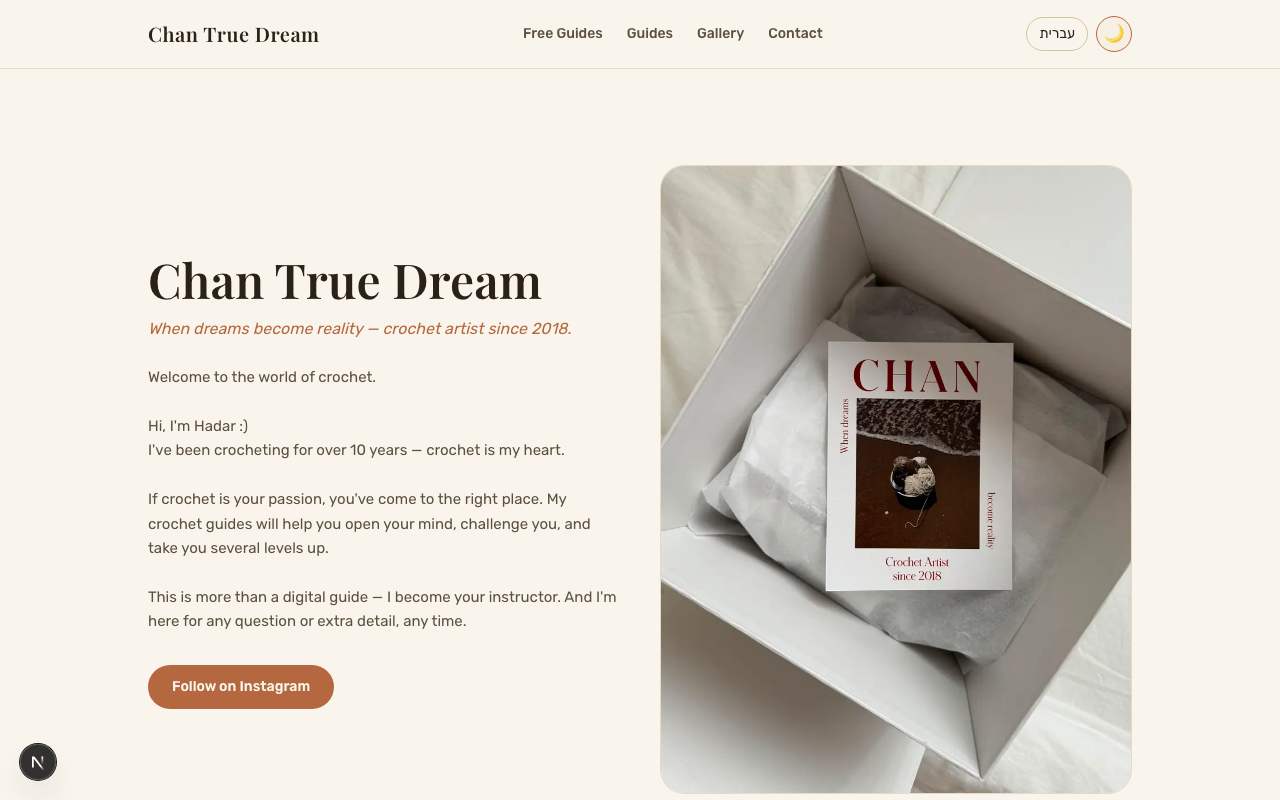
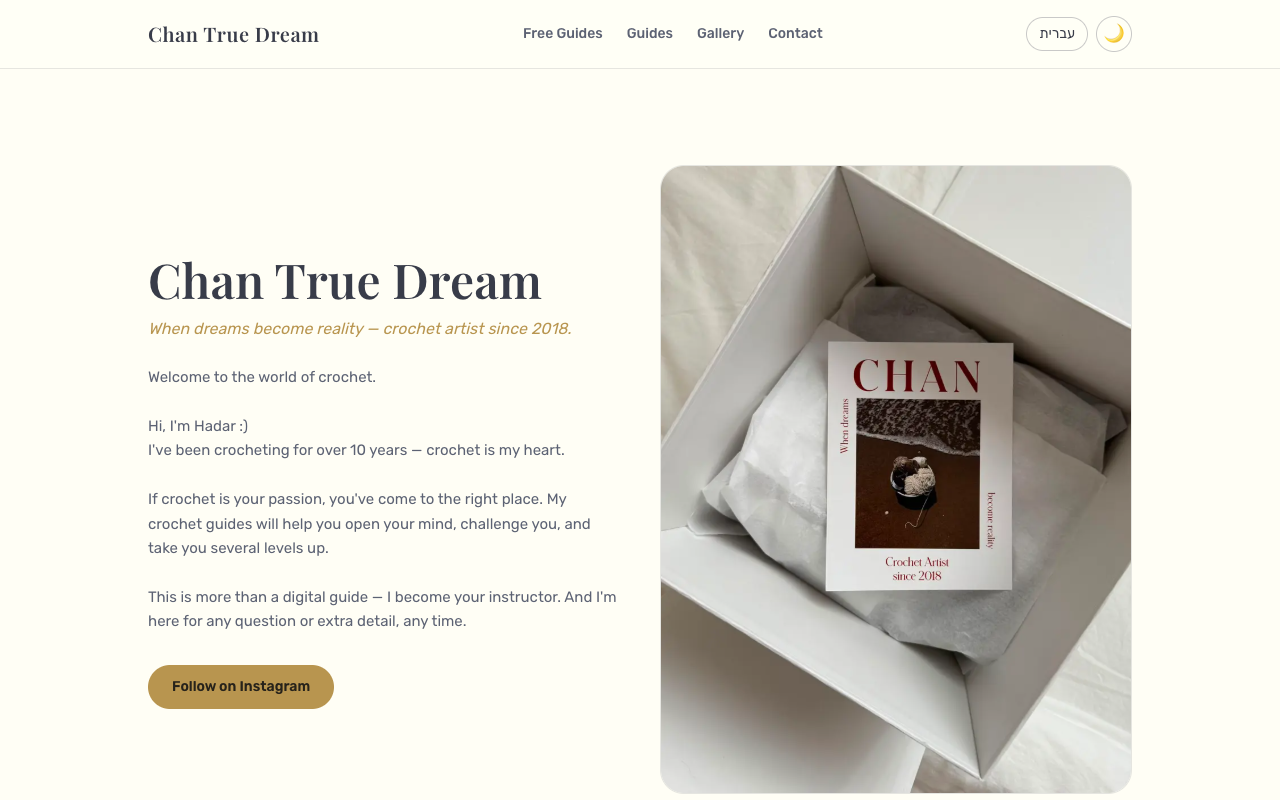
fix: sync live-project content with upstream repos
Flagscope now supports 6 providers (added GrowthBook and ConfigCat
since the portfolio copy was written) — updated the provider list in
both Products and LiveWork. Also refreshes Chan True Dream's
screenshot, which predated its accent-color shift from
terracotta-orange to warm gold/cream.

Verified via a full responsive sweep (mobile/tablet/laptop/desktop)
against the live production site: no horizontal overflow, no console
errors, no formatting issues.

diff --git a/components/Products.tsx b/components/Products.tsx
@@ -83,12 +83,12 @@ function FeaturedFlagscope() {
               Kill flag debt. Multi-provider feature flag governance.
             </p>
             <p className="text-sm text-text-secondary leading-relaxed mb-6">
-              Connects to LaunchDarkly, Flagsmith, Statsig and Unleash. Finds
-              stale flags, ownerless flags, dead branches. Opens the cleanup PR
-              for you. Landing live; beta opens early 2026.
+              Connects to LaunchDarkly, Flagsmith, Statsig, Unleash, GrowthBook,
+              and ConfigCat. Finds stale flags, ownerless flags, dead branches.
+              Opens the cleanup PR for you. Landing live; beta opens early 2026.
             </p>
             <div className="flex flex-wrap gap-2 mb-6">
-              {["LaunchDarkly", "Flagsmith", "Statsig", "Unleash"].map((p) => (
+              {["LaunchDarkly", "Flagsmith", "Statsig", "Unleash", "GrowthBook", "ConfigCat"].map((p) => (
                 <span
                   key={p}
                   className="font-mono text-xs px-2.5 py-1 bg-bg border border-border rounded text-text-secondary"

diff --git a/components/LiveWork.tsx b/components/LiveWork.tsx
@@ -32,7 +32,7 @@ const projects: Project[] = [
     name: "Flagscope",
     tagline: "Multi-provider feature-flag debt scanner with one-click cleanup PRs.",
     business:
-      "Connects LaunchDarkly, Flagsmith, Statsig, and Unleash; finds stale and ownerless flags before they rot into incidents, and opens the cleanup PR automatically instead of leaving it as a backlog ticket nobody picks up.",
+      "Connects LaunchDarkly, Flagsmith, Statsig, Unleash, GrowthBook, and ConfigCat; finds stale and ownerless flags before they rot into incidents, and opens the cleanup PR automatically instead of leaving it as a backlog ticket nobody picks up.",
     href: "https://flagscope.vercel.app",
     image: "/work/flagscope.png",
     stack: ["Next.js", "Provider APIs", "GitHub App"],
